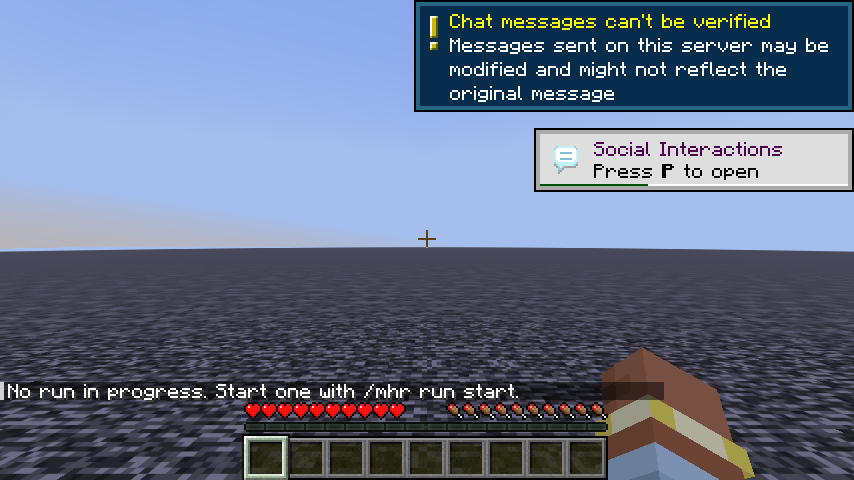
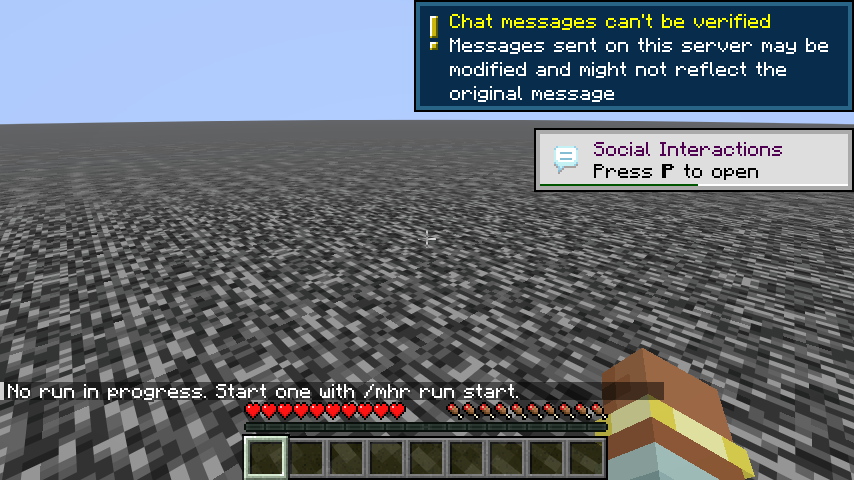
Prove the client's side of the lobby, and narrow what is still wrong
The client scenarios were only asking the server where the player was, which
a broken feature can answer correctly. They now also ask the client what it
has been sent, and give the dimension change a timeout that fits the machine
it runs on rather than the harness default of ten seconds.

That turns a vague "the client never follows" into the actual defect: coming
back from a run, the client agrees it is in the lobby and has been sent none
of its blocks, so the player stands in what their client draws as empty void.
The first visit is fine. Leaving the lobby does not untrack the player there,
so its lookup keeps pointing at them and the next arrival is only half
registered.

Two scenarios are red on exactly that, by design, until it is fixed.

diff --git a/src/gametest/java/fi/vilpponen/mhr/gametest/client/RunLifecycleClientTest.java b/src/gametest/java/fi/vilpponen/mhr/gametest/client/RunLifecycleClientTest.java
@@ -45,15 +45,20 @@ import org.slf4j.LoggerFactory;
  * would test the opposite of what is wanted; the assertion is that two runs' seeds differ and that
  * each run's overworld reports the seed the record claims for it.
  *
- * <p><b>Known failure.</b> Two scenarios here are red, and for the same reason: when a run ends,
- * the server puts the player in the lobby and every server-side assertion about that passes, but
- * the client never follows — it stays in the world it was in, and
- * {@code waitForClientIn} says so. The other direction is fine: entering a run, which is where the
- * destination is a level object the client has never seen, works every time. The difference points
- * at the lobby being the same {@code ServerLevel} across the whole session. Moving the player with
- * an ordinary cross-dimension teleport and with {@code PlayerList.respawn} both behave the same
- * way, so it is not the entity-add path. This is left as an assertion rather than a warning so the
- * gap cannot be mistaken for a passing feature.
+ * <p>Both directions of the dimension change are asserted from the client as well as the server,
+ * because "the server thinks you are in the lobby" is only half of being in the lobby. They are
+ * given a long timeout rather than the harness default: see {@link #ARRIVAL_TIMEOUT}.
+ *
+ * <p><b>Known failure.</b> {@code checkClientSeesTheLobby} is red on the two scenarios that return
+ * from a run. Everything the server owns is right — the record, the phase, the player's dimension —
+ * and the client agrees it is in the lobby, but it has been sent none of the lobby's blocks, so the
+ * player stands in what their client draws as empty void. The cause is in Minecraft's own
+ * per-level entity bookkeeping: leaving the lobby does not untrack the player there, so the lobby's
+ * lookup keeps pointing at them, and the next arrival is only half registered and never starts
+ * receiving chunks. The first visit, before anyone has ever left, is fine — which is why the
+ * before-any-run scenario passes. Deferring the move by a tick, moving through
+ * {@code PlayerList.respawn} instead of a teleport, and force-loading the lobby's spawn chunk were
+ * all tried and none of them changes it.
  *
  * <p>See {@code docs/dev-environment.md} for how to run this.
  */
@@ -152,6 +157,8 @@ public class RunLifecycleClientTest implements FabricClientGameTest {
 		check(floor, "the lobby must have generated a floor under its spawn, and there is none");
 
 		TestRuns.mark(server, Lobby.LEVEL, LOBBY_MARK, MARKER);
+		frameTheLobby(context, server);
+		checkClientSeesTheLobby(context);
 		context.takeScreenshot("run-lifecycle-lobby-before-any-run");
 	}
 
@@ -287,6 +294,8 @@ public class RunLifecycleClientTest implements FabricClientGameTest {
 						+ " they have " + health + " health");
 
 		waitForClientIn(context, connection, Lobby.LEVEL.identifier().toString());
+		frameTheLobby(context, server);
+		checkClientSeesTheLobby(context);
 		context.takeScreenshot("run-lifecycle-lobby-after-death");
 	}
 
@@ -390,6 +399,8 @@ public class RunLifecycleClientTest implements FabricClientGameTest {
 		check(TestRuns.playerIsInTheLobby(server, connection),
 				"ending the run must bring the player back to the lobby");
 		waitForClientIn(context, connection, Lobby.LEVEL.identifier().toString());
+		frameTheLobby(context, server);
+		checkClientSeesTheLobby(context);
 		context.takeScreenshot("run-lifecycle-lobby-between-runs");
 	}
 
@@ -402,6 +413,17 @@ public class RunLifecycleClientTest implements FabricClientGameTest {
 	 * drives, so registering twice would double every number this test asserts on.
 	 */
 	/**
+	 * How long a client may take to follow the player somewhere, in client ticks.
+	 *
+	 * <p>The harness's own default is 200, ten seconds, and that is not enough here. A dimension
+	 * change has to survive the server's chunk-load handshake, which vanilla itself allows thirty
+	 * seconds for, on a pod that renders with llvmpipe and shares its CPU with whatever else is
+	 * running. Two minutes' worth is not a guess at how long it takes — it is far enough past the
+	 * longest observed arrival that a failure here means the client never arrived at all.
+	 */
+	private static final int ARRIVAL_TIMEOUT = 20 * 120;
+
+	/**
 	 * Wait for a freshly connected client to be properly in the world.
 	 *
 	 * <p>Rendered chunks are not the whole of it: the "Loading terrain" screen is still up while the
@@ -410,26 +432,29 @@ public class RunLifecycleClientTest implements FabricClientGameTest {
 	 */
 	private static void settle(ClientGameTestContext context, TestDedicatedServerConnection connection) {
 		connection.waitForChunksRender();
-		context.waitFor(client -> client.gui.screen() == null);
+		context.waitFor(client -> client.gui.screen() == null, ARRIVAL_TIMEOUT);
 		context.waitTicks(20);
 	}
 
 	/**
 	 * Assert that the client itself has arrived in a dimension and drawn it.
 	 *
-	 * <p>Not only evidence. The server deciding a player is in the lobby is half the claim; the
-	 * other half is the player seeing it. This currently fails for the run-to-lobby direction —
-	 * see the note on {@link #runTest} — and is deliberately left as an assertion rather than a
-	 * warning so that the gap stays visible.
+	 * <p>Not only evidence, though it is that too: the server deciding a player is in the lobby is
+	 * half the claim and the player seeing it is the other half, so this is an assertion rather
+	 * than a best-effort wait.
+	 *
+	 * <p>Deliberately not {@code waitForChunksRender}. That waits for every chunk in render distance
+	 * to have geometry, and the lobby is one bedrock plane in an empty biome — there is nothing out
+	 * there to render, and waiting for it to appear is waiting for something that never happens.
+	 * What matters is that the client is in the right world with the loading screen gone.
 	 */
 	private static void waitForClientIn(ClientGameTestContext context,
 			TestDedicatedServerConnection connection, String dimension) {
 		try {
 			context.waitFor(client -> client.player != null
-					&& client.player.level().dimension().identifier().toString().equals(dimension));
-			connection.waitForChunksRender();
-			context.waitFor(client -> client.gui.screen() == null);
-			context.waitTicks(20);
+					&& client.player.level().dimension().identifier().toString().equals(dimension)
+					&& client.gui.screen() == null, ARRIVAL_TIMEOUT);
+			context.waitTicks(40);
 		} catch (Throwable stuck) {
 			String where = context.computeOnClient(client -> client.player == null
 					? "nowhere (no player)"
@@ -437,8 +462,43 @@ public class RunLifecycleClientTest implements FabricClientGameTest {
 			String screen = context.computeOnClient(client ->
 					client.gui.screen() == null ? "none" : client.gui.screen().getClass().getSimpleName());
 			throw new AssertionError("The client never followed the player into " + dimension
-					+ ": it is still in " + where + " with screen " + screen, stuck);
+					+ ": it is in " + where + " with screen " + screen, stuck);
 		}
+	}
+
+	/**
+	 * Point the camera at the lobby floor before photographing it.
+	 *
+	 * <p>Arriving leaves the player looking level, and the lobby's horizon is a bedrock plane under
+	 * an empty biome — which photographs as most of a sky and a grey band. Looking down at a block
+	 * a few paces away puts the floor in the picture, which is the thing worth seeing.
+	 */
+	private static void frameTheLobby(ClientGameTestContext context, TestDedicatedServerContext server) {
+		server.runCommand("time set noon");
+		context.getInput().lookAt(Lobby.SPAWN.below().offset(4, 0, 4));
+		context.waitTicks(10);
+	}
+
+	/**
+	 * Has the client actually been sent the lobby?
+	 *
+	 * <p>The strongest client-side claim there is, and the one that catches the failure the
+	 * dimension check does not: a player can be in the lobby as far as both sides' bookkeeping is
+	 * concerned while the client has received none of its blocks, in which case they are standing
+	 * in what looks to them like empty void. Asked about two blocks rather than one so that a
+	 * single chunk arriving does not pass for the lobby having arrived.
+	 */
+	private static void checkClientSeesTheLobby(ClientGameTestContext context) {
+		String under = context.computeOnClient(client ->
+				client.level.getBlockState(Lobby.SPAWN.below()).getBlock().toString());
+		String ahead = context.computeOnClient(client ->
+				client.level.getBlockState(Lobby.SPAWN.below().offset(4, 0, 4)).getBlock().toString());
+		LOGGER.info("Lobby as the client has it: under the player {}, four paces on {}", under, ahead);
+
+		check(under.contains("bedrock") && ahead.contains("bedrock"),
+				"the client must have been sent the lobby's floor, and where it should be bedrock it"
+						+ " has " + under + " under the player and " + ahead + " four paces on —"
+						+ " the player is standing in a lobby their client draws as empty void");
 	}
 
 	private static void countRunEndings(TestDedicatedServerContext server) {
